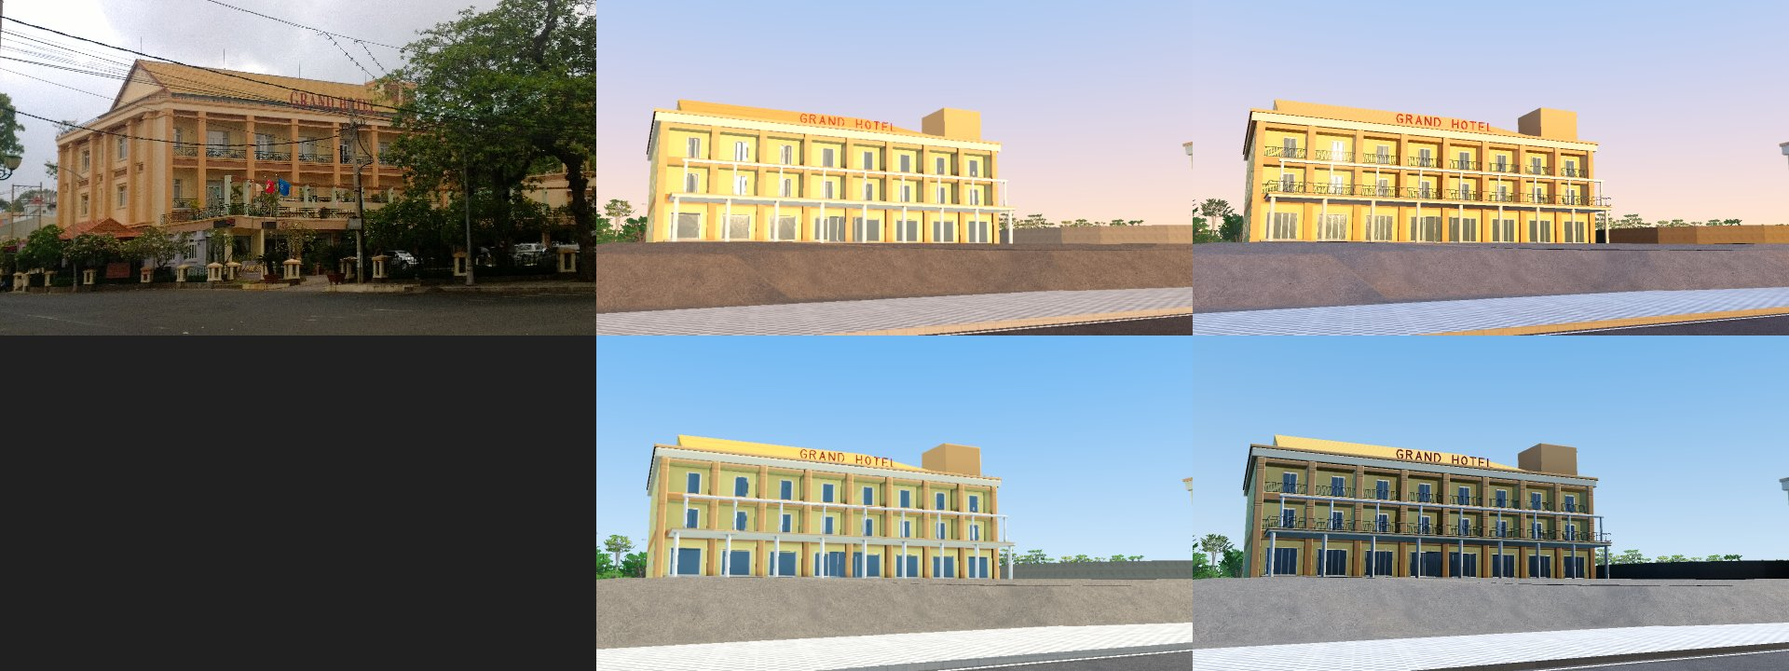
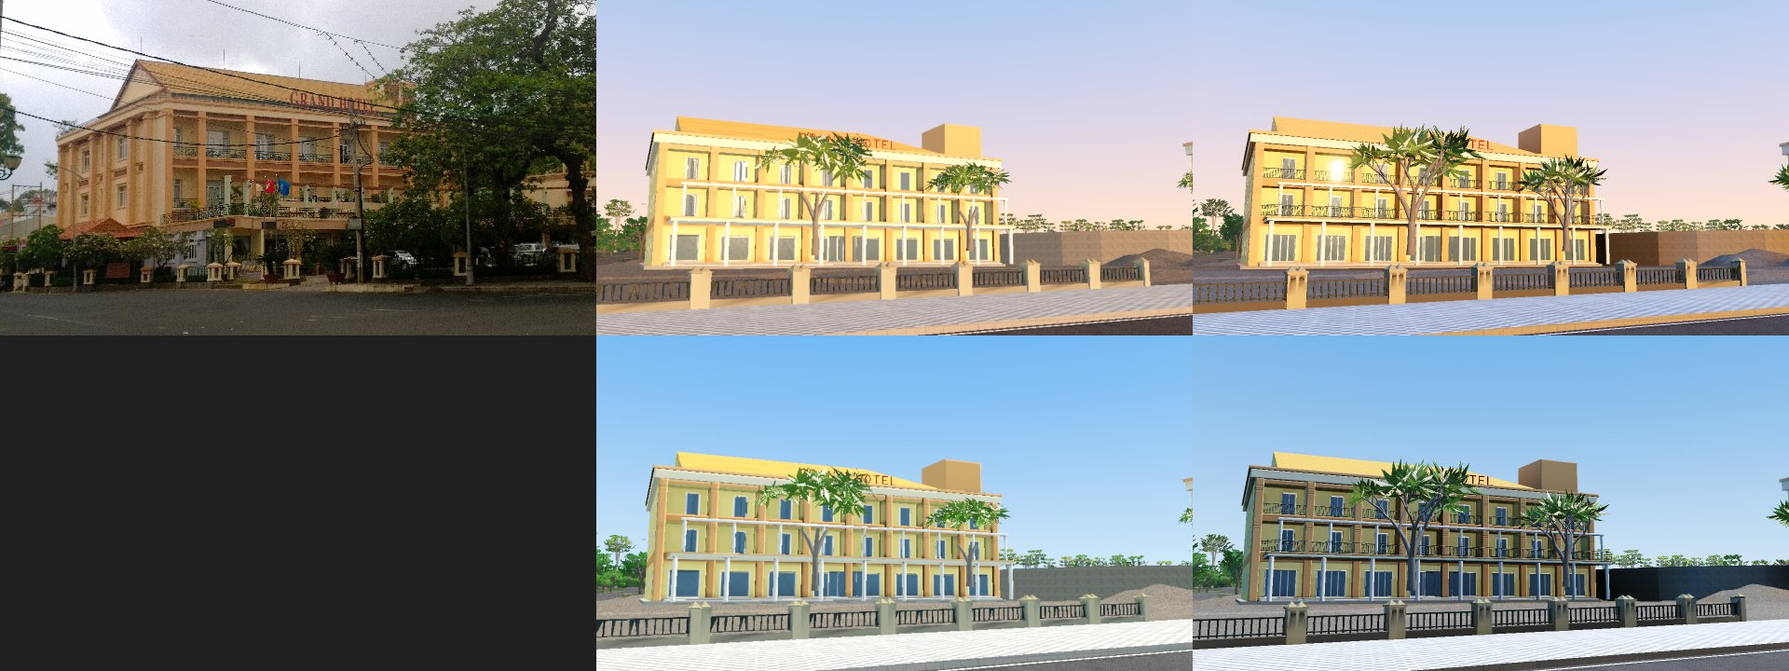
Give the fences a row of their own, and make the sheets of the five shots again
In the row of the walls (the mid level to 12 m on Low) the fence of the Grand
Hotel in S4 was its far level. The fences now have the mid level to 40 m on
Low, and PT-72 fails when a cell of a fence nearer than 30 m to the eye of a
shot shows its far level. The sheets of PT-72 and the hill sheet of S1 are
from this branch.

diff --git a/docs/showcase/index.html b/docs/showcase/index.html
@@ -5,5 +5,5 @@
 img{max-width:100%;height:auto;border:1px solid #ccc}a{word-break:break-all}</style></head>
 <body><h1>The showcase of Bãi Trước</h1>
 <p>Plan 0026, PT-72. The five shots of section 3, next to their photos.</p>
-<section><h2>S1: The beach to the south: the boats, the hotels of Hạ Long, the slope of Núi Nhỏ</h2><p>The photo: <a href="https://commons.wikimedia.org/wiki/File:V%C5%A9ng_T%C3%A0u,_Ba_Ria_-_Vung_Tau,_Vietnam_-_panoramio_(2).jpg">https://commons.wikimedia.org/wiki/File:V%C5%A9ng_T%C3%A0u,_Ba_Ria_-_Vung_Tau,_Vietnam_-_panoramio_(2).jpg</a>, trungydang, CC BY 3.0, 2014-04-05 17:53. The beach of Bãi Trước to the south from the walk at its north end: people and basket boats on the sand, fishing boats in the bay, the sea wall of Hạ Long, Khách sạn Bưu điện (P&amp;T, the tall white block left of the middle) and the hotels on the slope of Núi Nhỏ.</p><p>The eye: the place that the author gave on Panoramio (10.345688 N, 107.073777 E; the camera has no GPS). The lens: Canon PowerShot G12 (in the file): 13.8 mm on a sensor of 7.44 mm, a horizontal field of view of 29.9 degrees. Eye (report 0026, D-0026-20): in the photo, the low wall at the top of the beach is at the left, and the camera looks down on its top: the photographer stands on the walk and holds the camera over the wall, over the sand. So the eye is 0.25 m out of the sea face of the wall (the wall of the game is at x -48.25 there), 1.6 m over the walk, which is 0.8 m over the sand at the foot of the wall: eye_height 2.4 m over the sand. From the walk 2.7 m inland (the eye before), the wall hid the beach, the boats on the sand, and the swimmers: the ground of the beach falls 1.8 m in 6 m from the wall. The place on Panoramio is 19 m from the eye, in the park. Heading: from the place of the photo, Khách sạn Bưu điện (OSM way 259750558, x 22, z 286) is 4.3 degrees left of the middle of the photo and the blue and white block of Cao ốc Sen Biển (way 225803467, x -17, z 352) 0.6 degrees right of it (both give 1.8 to 2.0 degrees from the place of the photo, and 3.4 and 3.5 degrees from the eye): 3.4 degrees. Pitch: the foot of the sea wall of Hạ Long (about 400 m away) is 1.4 degrees under the middle.</p><p>Columns: the photo, Low (the Mobile renderer), High (Forward+). Rows: 17:10, 12:00.</p><img src="sheet_S1.jpg" alt="The sheet of S1"></section><section><h2>S2: The park: the leaning palms on the lawn, the sculptures, the bay</h2><p>The photo: <a href="https://commons.wikimedia.org/wiki/File:C%C3%B4ng_Vi%C3%AAn_B%C3%A3i_Tr%C6%B0%E1%BB%9Bc,_Quang_Trung,_Ph%C6%B0%E1%BB%9Dng_1,_tp._V%C5%A9ng_T%C3%A0u,_B%C3%A0_R%E1%BB%8Ba_-_V%C5%A9ng_T%C3%A0u,_Vi%E1%BB%87t_Nam_-_panoramio_(1).jpg">https://commons.wikimedia.org/wiki/File:C%C3%B4ng_Vi%C3%AAn_B%C3%A3i_Tr%C6%B0%E1%BB%9Bc,_Quang_Trung,_Ph%C6%B0%E1%BB%9Dng_1,_tp._V%C5%A9ng_T%C3%A0u,_B%C3%A0_R%E1%BB%8Ba_-_V%C5%A9ng_T%C3%A0u,_Vi%E1%BB%87t_Nam_-_panoramio_(1).jpg</a>, trungydang, CC BY 3.0, 2014-04-06 08:01. The north part of the park to the south: leaning coconut palms on a lawn, stone sculptures, a sign, Norfolk pines, the low wall of the beach with the boats of the bay on the right, and Khách sạn Bưu điện far in the middle.</p><p>The eye: the GPS of the camera in the photo file (10.345557 N, 107.073917 E). The lens: Nokia Lumia 1020 (in the file): 26 mm (35 mm equivalent) in 16:9, a horizontal field of view of 71.9 degrees. Eye: 4.6 m east of the GPS of the photo, so that the camera is not in the crown of a tree of the park or in a walker. Heading: Khách sạn Bưu điện (x 22, z 286) is 11.4 degrees left of the middle. Pitch: the line of the sea is 110 px under the middle of 720 px.</p><p>Columns: the photo, Low (the Mobile renderer), High (Forward+). Rows: 17:10, 12:00.</p><img src="sheet_S2.jpg" alt="The sheet of S2"></section><section><h2>S3: Cảng vụ from the junction of Hạ Long, Quang Trung to the north</h2><p>The photo: <a href="https://commons.wikimedia.org/wiki/File:Bai_truoc-duong_Ha_long-Ph%C6%B0%E1%BB%9Dng_2,_tp._V%C5%A9ng_T%C3%A0u,_B%C3%A0_R%E1%BB%8Ba_-_V%C5%A9ng_T%C3%A0u,_Vi%E1%BB%87t_Nam_-_panoramio.jpg">https://commons.wikimedia.org/wiki/File:Bai_truoc-duong_Ha_long-Ph%C6%B0%E1%BB%9Dng_2,_tp._V%C5%A9ng_T%C3%A0u,_B%C3%A0_R%E1%BB%8Ba_-_V%C5%A9ng_T%C3%A0u,_Vi%E1%BB%87t_Nam_-_panoramio.jpg</a>, trungydang, CC BY 3.0, 2014-04-06 09:10. Cảng vụ Hàng hải Vũng Tàu (2 Quang Trung) from the junction of Hạ Long: the corner with its glass bays, the sign, the flag, two Norfolk pines, scooters, Quang Trung to the north on the left with the median and the Grand Hotel far away.</p><p>The eye: the GPS of the camera in the photo file (10.341536 N, 107.074760 E). The lens: Nokia Lumia 1020 (in the file): 26 mm (35 mm equivalent) in 16:9, a horizontal field of view of 71.9 degrees. Heading: the round corner of Cảng vụ (x 112, z 204) is 8.4 degrees right of the middle, the north end of its front (x 113, z 177) 7.1 degrees left, and its east end (x 135, z 204) 27.6 degrees right: 144 to 149 degrees. Pitch: the far end of Quang Trung is 205 px under the middle of 720 px.</p><p>Columns: the photo, Low (the Mobile renderer), High (Forward+). Rows: 17:10, 12:00.</p><img src="sheet_S3.jpg" alt="The sheet of S3"></section><section><h2>S4: The Grand Hotel from Quang Trung</h2><p>The photo: <a href="https://commons.wikimedia.org/wiki/File:Grand_hotel,_quang_trung_street-Ph%C6%B0%E1%BB%9Dng_1,_tp._V%C5%A9ng_T%C3%A0u,_B%C3%A0_R%E1%BB%8Ba_-_V%C5%A9ng_T%C3%A0u,_Vi%E1%BB%87t_Nam_-_panoramio.jpg">https://commons.wikimedia.org/wiki/File:Grand_hotel,_quang_trung_street-Ph%C6%B0%E1%BB%9Dng_1,_tp._V%C5%A9ng_T%C3%A0u,_B%C3%A0_R%E1%BB%8Ba_-_V%C5%A9ng_T%C3%A0u,_Vi%E1%BB%87t_Nam_-_panoramio.jpg</a>, trungydang, CC BY 3.0, 2014-04-06 06:54. The Grand Hotel (2 Nguyễn Du) across Quang Trung: the main block of 3 storeys with its tile roof, the north end with a pediment, the letters GRAND HOTEL, the fence with lantern posts, frangipani and big trees.</p><p>The eye: the GPS of the camera in the photo file (10.343776 N, 107.074917 E). The lens: Nokia Lumia 1020 (in the file) with its zoom: a horizontal field of view of 55 degrees, from the photo. Lens and heading: from the GPS of the photo, the north end of the front of the main block (x 152, z -21) is at the bearing 100 degrees and its south end (x 158, z 15) at 68 degrees; the north end is at 125 px of 1280 and the south end is hidden by the trees past 870 px, so the field of view is about 55 degrees, and the heading 77.3 degrees. Pitch: the tops of the lantern posts of the fence (about 1.5 m) are 190 px under the middle. The place on Panoramio of the survey (c11) is 13 m from the GPS of the file.</p><p>Columns: the photo, Low (the Mobile renderer), High (Forward+). Rows: 17:10, 12:00.</p><img src="sheet_S4.jpg" alt="The sheet of S4"></section><section><h2>S5: The walk of the sea at dusk</h2><p>The photo: <a href="https://commons.wikimedia.org/wiki/File:Voyage_au_Vi%C3%AAt_Nam_-_panoramio_(12).jpg">https://commons.wikimedia.org/wiki/File:Voyage_au_Vi%C3%AAt_Nam_-_panoramio_(12).jpg</a>, Jean Van Jean, CC BY 3.0, 2015-03 (uploaded 2015-03-20). The walk of the sea at dusk: a raised lawn in a granite border on the left, the tiles of the walk on the right, lamp poles with warm lights, Quang Trung and a hotel of about 9 storeys behind.</p><p>The eye: the place that the author gave on Panoramio (10.346088 N, 107.073902 E; no GPS in the file, and no geotag in the survey of World plan 0018); the raised lawn that the photo shows at the feet of the camera ends 56 m from it. The lens: not in the file: a phone of 4:3, about 62 degrees horizontal. Eye: on the walk at the north-west end of the raised lawn of OSM way 234797330 (the lawn is at the left of the camera in the photo, its border at its feet). Heading: the edge of the lawn goes to the south-east at the bearing 41 degrees, and its line goes away 3.6 degrees right of the middle of the photo: 44.6 degrees.</p><p>Columns: the photo, Low (the Mobile renderer), High (Forward+). Rows: 17:10, 12:00.</p><img src="sheet_S5.jpg" alt="The sheet of S5"></section>
+<section><h2>S1: The beach to the south: the boats, the hotels of Hạ Long, the slope of Núi Nhỏ</h2><p>The photo: <a href="https://commons.wikimedia.org/wiki/File:V%C5%A9ng_T%C3%A0u,_Ba_Ria_-_Vung_Tau,_Vietnam_-_panoramio_(2).jpg">https://commons.wikimedia.org/wiki/File:V%C5%A9ng_T%C3%A0u,_Ba_Ria_-_Vung_Tau,_Vietnam_-_panoramio_(2).jpg</a>, trungydang, CC BY 3.0, 2014-04-05 17:53. The beach of Bãi Trước to the south from the walk at its north end: people and basket boats on the sand, fishing boats in the bay, the sea wall of Hạ Long, Khách sạn Bưu điện (P&amp;T, the tall white block left of the middle) and the hotels on the slope of Núi Nhỏ.</p><p>The eye: the place that the author gave on Panoramio (10.345688 N, 107.073777 E; the camera has no GPS). The lens: Canon PowerShot G12 (in the file): 13.8 mm on a sensor of 7.44 mm, a horizontal field of view of 29.9 degrees. Eye (report 0026, D-0026-20): in the photo, the low wall at the top of the beach is at the left, and the camera looks down on its top: the photographer stands on the walk and holds the camera over the wall, over the sand. So the eye is 0.25 m out of the sea face of the wall (the wall of the game is at x -48.25 there), 1.6 m over the walk, which is 0.8 m over the sand at the foot of the wall: eye_height 2.4 m over the sand. From the walk 2.7 m inland (the eye before), the wall hid the beach, the boats on the sand, and the swimmers: the ground of the beach falls 1.8 m in 6 m from the wall. The place on Panoramio is 19 m from the eye, in the park. Heading: from the place of the photo, Khách sạn Bưu điện (OSM way 259750558, x 22, z 286) is 4.3 degrees left of the middle of the photo and the blue and white block of Cao ốc Sen Biển (way 225803467, x -17, z 352) 0.6 degrees right of it (both give 1.8 to 2.0 degrees from the place of the photo, and 3.4 and 3.5 degrees from the eye): 3.4 degrees. Pitch: the foot of the sea wall of Hạ Long (about 400 m away) is 1.4 degrees under the middle.</p><p>Columns: the photo, Low (the Mobile renderer), High (Forward+). Rows: 17:10, 12:00.</p><img src="sheet_S1.jpg" alt="The sheet of S1"><p>The box "hill" at twice its size: the photo, then each screenshot (report 0026, D-0026-23).</p><img src="sheet_S1_hill.jpg" alt="The hill of S1"></section><section><h2>S2: The park: the leaning palms on the lawn, the sculptures, the bay</h2><p>The photo: <a href="https://commons.wikimedia.org/wiki/File:C%C3%B4ng_Vi%C3%AAn_B%C3%A3i_Tr%C6%B0%E1%BB%9Bc,_Quang_Trung,_Ph%C6%B0%E1%BB%9Dng_1,_tp._V%C5%A9ng_T%C3%A0u,_B%C3%A0_R%E1%BB%8Ba_-_V%C5%A9ng_T%C3%A0u,_Vi%E1%BB%87t_Nam_-_panoramio_(1).jpg">https://commons.wikimedia.org/wiki/File:C%C3%B4ng_Vi%C3%AAn_B%C3%A3i_Tr%C6%B0%E1%BB%9Bc,_Quang_Trung,_Ph%C6%B0%E1%BB%9Dng_1,_tp._V%C5%A9ng_T%C3%A0u,_B%C3%A0_R%E1%BB%8Ba_-_V%C5%A9ng_T%C3%A0u,_Vi%E1%BB%87t_Nam_-_panoramio_(1).jpg</a>, trungydang, CC BY 3.0, 2014-04-06 08:01. The north part of the park to the south: leaning coconut palms on a lawn, stone sculptures, a sign, Norfolk pines, the low wall of the beach with the boats of the bay on the right, and Khách sạn Bưu điện far in the middle.</p><p>The eye: the GPS of the camera in the photo file (10.345557 N, 107.073917 E). The lens: Nokia Lumia 1020 (in the file): 26 mm (35 mm equivalent) in 16:9, a horizontal field of view of 71.9 degrees. Eye: 4.6 m east of the GPS of the photo, so that the camera is not in the crown of a tree of the park or in a walker. Heading: Khách sạn Bưu điện (x 22, z 286) is 11.4 degrees left of the middle. Pitch: the line of the sea is 110 px under the middle of 720 px.</p><p>Columns: the photo, Low (the Mobile renderer), High (Forward+). Rows: 17:10, 12:00.</p><img src="sheet_S2.jpg" alt="The sheet of S2"></section><section><h2>S3: Cảng vụ from the junction of Hạ Long, Quang Trung to the north</h2><p>The photo: <a href="https://commons.wikimedia.org/wiki/File:Bai_truoc-duong_Ha_long-Ph%C6%B0%E1%BB%9Dng_2,_tp._V%C5%A9ng_T%C3%A0u,_B%C3%A0_R%E1%BB%8Ba_-_V%C5%A9ng_T%C3%A0u,_Vi%E1%BB%87t_Nam_-_panoramio.jpg">https://commons.wikimedia.org/wiki/File:Bai_truoc-duong_Ha_long-Ph%C6%B0%E1%BB%9Dng_2,_tp._V%C5%A9ng_T%C3%A0u,_B%C3%A0_R%E1%BB%8Ba_-_V%C5%A9ng_T%C3%A0u,_Vi%E1%BB%87t_Nam_-_panoramio.jpg</a>, trungydang, CC BY 3.0, 2014-04-06 09:10. Cảng vụ Hàng hải Vũng Tàu (2 Quang Trung) from the junction of Hạ Long: the corner with its glass bays, the sign, the flag, two Norfolk pines, scooters, Quang Trung to the north on the left with the median and the Grand Hotel far away.</p><p>The eye: the GPS of the camera in the photo file (10.341536 N, 107.074760 E). The lens: Nokia Lumia 1020 (in the file): 26 mm (35 mm equivalent) in 16:9, a horizontal field of view of 71.9 degrees. Heading: the round corner of Cảng vụ (x 112, z 204) is 8.4 degrees right of the middle, the north end of its front (x 113, z 177) 7.1 degrees left, and its east end (x 135, z 204) 27.6 degrees right: 144 to 149 degrees. Pitch: the far end of Quang Trung is 205 px under the middle of 720 px.</p><p>Columns: the photo, Low (the Mobile renderer), High (Forward+). Rows: 17:10, 12:00.</p><img src="sheet_S3.jpg" alt="The sheet of S3"></section><section><h2>S4: The Grand Hotel from Quang Trung</h2><p>The photo: <a href="https://commons.wikimedia.org/wiki/File:Grand_hotel,_quang_trung_street-Ph%C6%B0%E1%BB%9Dng_1,_tp._V%C5%A9ng_T%C3%A0u,_B%C3%A0_R%E1%BB%8Ba_-_V%C5%A9ng_T%C3%A0u,_Vi%E1%BB%87t_Nam_-_panoramio.jpg">https://commons.wikimedia.org/wiki/File:Grand_hotel,_quang_trung_street-Ph%C6%B0%E1%BB%9Dng_1,_tp._V%C5%A9ng_T%C3%A0u,_B%C3%A0_R%E1%BB%8Ba_-_V%C5%A9ng_T%C3%A0u,_Vi%E1%BB%87t_Nam_-_panoramio.jpg</a>, trungydang, CC BY 3.0, 2014-04-06 06:54. The Grand Hotel (2 Nguyễn Du) across Quang Trung: the main block of 3 storeys with its tile roof, the north end with a pediment, the letters GRAND HOTEL, the fence with lantern posts, frangipani and big trees.</p><p>The eye: the GPS of the camera in the photo file (10.343776 N, 107.074917 E). The lens: Nokia Lumia 1020 (in the file) with its zoom: a horizontal field of view of 55 degrees, from the photo. Lens and heading: from the GPS of the photo, the north end of the front of the main block (x 152, z -21) is at the bearing 100 degrees and its south end (x 158, z 15) at 68 degrees; the north end is at 125 px of 1280 and the south end is hidden by the trees past 870 px, so the field of view is about 55 degrees, and the heading 77.3 degrees. Pitch: the tops of the lantern posts of the fence (about 1.5 m) are 190 px under the middle. The place on Panoramio of the survey (c11) is 13 m from the GPS of the file.</p><p>Columns: the photo, Low (the Mobile renderer), High (Forward+). Rows: 17:10, 12:00.</p><img src="sheet_S4.jpg" alt="The sheet of S4"></section><section><h2>S5: The walk of the sea at dusk</h2><p>The photo: <a href="https://commons.wikimedia.org/wiki/File:Voyage_au_Vi%C3%AAt_Nam_-_panoramio_(12).jpg">https://commons.wikimedia.org/wiki/File:Voyage_au_Vi%C3%AAt_Nam_-_panoramio_(12).jpg</a>, Jean Van Jean, CC BY 3.0, 2015-03 (uploaded 2015-03-20). The walk of the sea at dusk: a raised lawn in a granite border on the left, the tiles of the walk on the right, lamp poles with warm lights, Quang Trung and a hotel of about 9 storeys behind.</p><p>The eye: the place that the author gave on Panoramio (10.346088 N, 107.073902 E; no GPS in the file, and no geotag in the survey of World plan 0018); the raised lawn that the photo shows at the feet of the camera ends 56 m from it. The lens: not in the file: a phone of 4:3, about 62 degrees horizontal. Eye: on the walk at the north-west end of the raised lawn of OSM way 234797330 (the lawn is at the left of the camera in the photo, its border at its feet). Heading: the edge of the lawn goes to the south-east at the bearing 41 degrees, and its line goes away 3.6 degrees right of the middle of the photo: 44.6 degrees.</p><p>Columns: the photo, Low (the Mobile renderer), High (Forward+). Rows: 17:10, 12:00.</p><img src="sheet_S5.jpg" alt="The sheet of S5"></section>
 </body></html>

diff --git a/docs/plans/0026-showcase-bai-truoc.md b/docs/plans/0026-showcase-bai-truoc.md
@@ -273,7 +273,7 @@ Most photos are from 2014 and 2015. A difference from 2019 that I know is a "Che
 - **Report 0026, D-0026-25 (the low wall at the eye of S1).** The walk is level to the wall: the build fills the ground of the walk side of each low wall of the beach to the level of the walk 3 m from the line, by at most 0.8 m (the walk side is the side whose point 1.5 m out is not on the beach); at the eye of S1 the walk is 4.58 m at 0.75 m from the line and 4.72 m at 2.75 m (it was 4.02 m and 4.63 m). The kind of the wall: only the photo of S1 (2014) shows the solid granite wall with the flat cap at the eye; Mapillary has no image of the walk of the sea (the walk is not a road), so that part stays Check, and the wall keeps its posts until a photo of 2017 to 2021 shows it.
 - **Report 0026, D-0026-26 (the steps of the openings).** The side of the sand of a low wall is its lower side where the two sides differ by more than 0.15 m 2 m out, and the side with less lawn and paving only where they do not (the flat north end of the line: there the steps went up on the side of the walk). The walls of the walks of the park have their steps too (five of the ten openings had none, with the sand 0.6 m to 2.3 m under the walk). PT-77 `showcase_steps` walks with the joystick through each opening, down the steps to the sand, and back up, in four runs, with a screenshot of each opening from the walk and from the sand. When I looked at the screenshots of the sand, each opening had a flat block over the sand, and the play test passed: the steps went down under the walk, on the wrong side (the steps go down along +z of the GLB of `bac_xuong_cat`), and `WorldModel` puts each level of a model on y = 0 (R7), so the row lifted the steps, which hang under their top, by their depth (1.25 m). Then the top of the steps was the base of the wall, not the walk (about 1 m over the walk at the openings near a raised lawn). Now the steps go to the sand, the pieces of the sea walls and the steps take away the lift of the row (`Showcase._lift_of()`), and the top of the steps is the ground of the walk 0.3 m from the wall. The step that finds it: PT-77 checks the top of the steps as the row draws them against the walk 1 m from the wall (at most 0.25 m) and their foot against the sand (on the side of the sand, at most 0.3 m from the ground), and writes the ground from 3 m on the walk to 3 m on the sand at each opening.
 - **Report 0026, D-0026-27 (the models with the status Source).** The job "Models of World" built `nha_mai_ngoi_cam`, `ke_ha_long`, and `ke_da_bai_truoc` (`fe1c185`). The hall stands on its outline at the level of the sidewalk of Hạ Long (the photo from a drone of 2021 shows its yard at the level of the road), in place of its stand-in. The sloped sea wall of Hạ Long is pieces of `ke_ha_long`, and the low wall of the beach has pieces of `ke_da_bai_truoc` on the side of the sand, each scaled in height to the drop at its place. `nha_khach_ha_long` waits out of `data/world/orders.json`: the job built it, but the check of its files failed ("the order of orders.json is not the order of the receipt"); the check now names the first value that differs, and its looks wait for the files of the lock. The test of the orders fails for a drawing with the status Source and no order, unless its `status_note` starts with "Not in the game" and says why. The first build of the pieces of `ke_ha_long` rose from the walk (the lift of the row, above): I turned the height over, and the slope then lay as a flat deck at the level of the walk over the sand. With the lift taken away, the slope goes down from the parapet to the sand, with its height scaled to the drop and its run to the same part (it keeps its angle).
-- **Report 0026, D-0026-28 (the budget of S5).** PT-73 measures each shot with walker spots again with each walker of its spots held at the point of its way nearest to the eye. The spot of S5 started 5 m from the eye; the photo of S5 has no person nearer than about 15 m, and with the walkers at their mid level S5 had 332 442 triangles and 617 draw calls. The spot now starts 10.5 m from the eye: S5 has 286 858 triangles and 568 draw calls on Low in the worst case. With the fence of the Grand Hotel, the pieces under the low wall, and the steps, the CI of `1e1c173` had 312 688 triangles at S5 and 301 842 at S2 (the walkers near). A range of a row is for a whole cell of 24 m, so all the pieces of the cell of the eye had their mid level. Now the pieces under the low wall are a row of their own with no shadow and only the far level on Low (to 40 m; from the walk the wall hides them), the pieces of the walls have the mid level to 12 m on Low, and the granite borders of the paths of the park are in squares of 60 m, each to 120 m (as one mesh for the park of 480 m they were 10 700 triangles of S2 and 12 700 of S5). S1 188 406, S2 283 568, S3 219 982, S4 166 727, and S5 283 998 triangles on Low, 570 draw calls at S5.
+- **Report 0026, D-0026-28 (the budget of S5).** PT-73 measures each shot with walker spots again with each walker of its spots held at the point of its way nearest to the eye. The spot of S5 started 5 m from the eye; the photo of S5 has no person nearer than about 15 m, and with the walkers at their mid level S5 had 332 442 triangles and 617 draw calls. The spot now starts 10.5 m from the eye: S5 has 286 858 triangles and 568 draw calls on Low in the worst case. With the fence of the Grand Hotel, the pieces under the low wall, and the steps, the CI of `1e1c173` had 312 688 triangles at S5 and 301 842 at S2 (the walkers near). A range of a row is for a whole cell of 24 m, so all the pieces of the cell of the eye had their mid level. Now the pieces under the low wall are a row of their own with no shadow and only the far level on Low (to 40 m; from the walk the wall hides them), the pieces of the walls have the mid level to 12 m on Low, and the granite borders of the paths of the park are in squares of 60 m, each to 120 m (as one mesh for the park of 480 m they were 10 700 triangles of S2 and 12 700 of S5). S1 188 406, S2 283 568, S3 219 982, S4 166 727, and S5 283 998 triangles on Low, 570 draw calls at S5. When I looked at the new sheets, the fence of the Grand Hotel in S4 on Low was its far level (a row of grey teeth): it was in the row of the walls, whose mid level now ends at 12 m. The spans of the fences are now a row of their own (`Showcase.fence_row`, `fence_ranges` of `wall_pieces`: on Low the mid level to 40 m). The step that finds it: PT-72 fails when a cell of a fence nearer than 30 m to the eye of a shot shows its far level (with the old range it failed at S4).
 - **Report 0026, D-0026-29 (the grey slab).** The top of a raised lawn is one plane fitted to the ground at its corners: with the ground at each corner, the grey top and the lawn were two bent faces with other diagonals, and the grey came over a third of the lawn. PT-72 checks that at least 80 % of the box `lawn` of S5 is green (90 % now; about 65 % with the slab).
 - **Report 0026, D-0026-30 (small things).** The shirts of `walker_3` and `walker_6` are mid tones (#9aa889 and #7d93a8; at the mid and the far level a light shirt was one flat color, as a body with no clothes). The puddles of the wet sand have soft edges, a little of the color of the water, and less gloss (white and dark patches before). Open: the south end of the park (bare sand with a dark band) and the point of brown earth at the south end of the median (the ground there is at the level of the roads: it is the ground texture in the gap between the two road meshes, a change of the surface mask of the build).
 - **R18 to R20 from the photos of 2017 to 2021.** The eight images of 2018-07-29 on Quang Trung (`sheet_r18_quang_trung_grand_1.jpg`, `sheet_r18_quang_trung_south_1.jpg`) show the sidewalk of the park side: checker tiles of dark grey and white, a map board in a black stand in 4 of 8 images, a drinks machine, cars parked at the curb in 6 of 8, groups of 5 to 10 scooters parked under the trees in 2 of 8, a cart of a seller in 1 of 8, no plastic stools, no shop signs (the park side has no shops). The road: dark asphalt, a white dashed middle line, a zebra crossing, a light granite curb; no patch and no manhole cover in these frames. No image of 2017 to 2021 looks at the shops of the town side of Quang Trung or of Hạ Long, and none is of the weeks before Tết (R19): the counts of `data/showcase/dressing.json` need more photos (a question for me).

diff --git a/AGENTS.md b/AGENTS.md
@@ -116,7 +116,7 @@ Verified in the development workspace (Linux, 2 CPUs, no GPU, no Vulkan):
 - The World factory checks that a model stands: the center of its points must be over its base. A lamp pole with a long arm does not stand by this rule; a thing that its site holds has `"site": true` in the extras of its drawing (World `lib/world/check.ex`). On 2026-11-17 (World `1984a6f`), a sculpture of 12 m with cells of 1 cm at the near level needed more memory than the factory has (HTTP 503), and a drawing of three such parts did not build at the mid level, though each part built alone; one part with cells of 1.5 cm built in 22 s. An order of a blueprint in data has the whole blueprint in it: a change of one kind of a family changes the hash of each order of the family. On the same day the factory answered HTTP 503 at `POST /orders` for each building of the blueprint `building` of 17 m or more, and for a near level with a map of 1 024: the job "Models of World" builds such an order with `mix world.order` (Hải Âu, about 70 m long: 28 minutes).
 - A node with a negative scale renders correctly (above), but an instance of a MultiMesh with a mirrored basis (a negative determinant) shows its back faces: the renderer does not turn its faces over. `Showcase._wall_piece()` keeps the basis of each piece of a wall right-handed.
 - `WorldModel` puts the lowest point of each level on y = 0 (plan 0023, R7), and a `WorldRow` uses these levels. A piece that hangs under its port (its top at y = 0 of World, as the pieces of the sea walls and the steps down to the sand) comes out lifted by its depth. `Showcase._lift_of()` gives the lift; `_wall_piece()` and the steps take it away. Do not turn the height of such a piece over: that makes its sloped face its bottom face.
-- A visibility range is for a whole node: a `WorldRow` cell of 24 m, or one mesh of a color of the showcase over the whole park, shows all its parts at the level of the distance to its middle (PT-73: the low wall of S5 and the borders of the paths of S2). A part with a range of its own needs a row or mesh of its own (`Showcase.under_row`, the squares of `path_borders` with `chunk_m` and `far_m`).
+- A visibility range is for a whole node: a `WorldRow` cell of 24 m, or one mesh of a color of the showcase over the whole park, shows all its parts at the level of the distance to its middle (PT-73: the low wall of S5 and the borders of the paths of S2). A part with a range of its own needs a row or mesh of its own (`Showcase.under_row`, `Showcase.fence_row`, the squares of `path_borders` with `chunk_m` and `far_m`).
 - The glTF import of Godot makes a `VehicleWheel3D` of a node whose name ends with `_wheel` or `-wheel` (and other node types for other suffixes), with the option `nodes/use_name_suffixes`. A joint of World can have such a name (`front_wheel`), so the import files of `assets/world/` turn the option off.
 - A visibility range is for a node. A `MultiMeshInstance3D` shows or hides all its instances at one distance. So a row of models of World (`WorldRow`) is in cells of 6 m.
 - The public bucket of Overture Maps (`overturemaps-us-west-2.s3.us-west-2.amazonaws.com`) answered from the workspace on 2026-11-17 (plan 0009, D2: not on 2026-11-05). The S3 list API (`?list-type=2`) gives the files of a release, and DuckDB reads the parquet files over HTTPS with `http_proxy` and `ca_cert_file` set. An `s3://` URL fails with 403: the proxy adds credentials to it.
@@ -278,7 +278,7 @@ The audio driver prints ALSA errors in the workspace. These errors are not defec
 - **Street photos** (plan 0009, R5e, made in plan 0026, R22): `tools/geo/photos.py` (CI only: the workflow "Street photos", `.github/workflows/mapillary.yml`, with the secret `MAPILLARY_TOKEN`) makes `data/geo/raw/mapillary.json` (the index of the images of the play area: ids, not URLs), `data/geo/build/photos_report.md` and `photos_map.png`, and the contact sheets of `data/showcase/photo_points.json` in `docs/reference/mapillary/` with `CREDITS.md`; `--check` needs no network. The workspace cannot reach Mapillary. A source of a drawing with `"mapillary": ID` is copied by `tools/photos/photos.py` in CI. `tools/geo/build.py` keeps the report and the map.
 - **A look on a real graphics card** (R21): the export workflow makes the macOS build with the play tests (the preset "macOS look") on each push to a branch `feat/...`; on a Mac, `tools/look_on_mac.sh` runs PT-72 on High with it and writes the sheets and the memory to `docs/showcase/mac/`.
 - **Reference photos** (R17): `python tools/photos/photos.py` copies the open photos (CC0, CC BY, CC BY-SA, public domain) of the drawings and of `data/showcase/shots.json` to `docs/reference/photos/` and writes `CREDITS.md`; `--check` checks them with no network; `--other DIR` gets the photos that are not open into a folder outside the repository. The workflow "Reference photos" (`.github/workflows/photos.yml`) does the same in CI, and keeps the photos that are not open as an artifact of one day. Look at each photo before a value comes from it.
-- **Play tests**: PT-71 `showcase_places`, PT-72 `showcase_shots` (`python tools/showcase/sheets.py` puts the sheets in `docs/showcase/`; a stand-in that covers more than 2 % of the frame of a shot fails, and the box `hill` of a shot is compared with its photo in hue, saturation, value, and the spread of its colors), PT-73 `showcase_budget`, PT-74 `showcase_walk` (the walk from the park to the jetty, in eight runs, each less than 180 s also with `PLAYTEST_MAX_FPS=3`), PT-75 `showcase_people`, PT-76 `showcase_night`, and PT-77 `showcase_steps` (the walk through each opening of the low wall, down the steps to the sand, and back up; the top of the steps as the row draws them is at the walk, and their foot is on the sand). PT-71 also checks the ground from the curb of its street to the front of each model of World (at most 0.5 m up or down, or the height of `front_above_street_m` from a photo); PT-72 also checks the shape of the box `hill` against the photo (the part on an edge, the largest smooth area), that no tree or model hides a subject with `trees`, and the green of the box `lawn`; PT-73 also measures each shot with the walkers of its spots at their points nearest to the eye. The side of the sand of a low wall is its lower side, or the side with less lawn and paving where the two sides are level (`Showcase._sand_side()`).
+- **Play tests**: PT-71 `showcase_places`, PT-72 `showcase_shots` (`python tools/showcase/sheets.py` puts the sheets in `docs/showcase/`; a stand-in that covers more than 2 % of the frame of a shot fails, and the box `hill` of a shot is compared with its photo in hue, saturation, value, and the spread of its colors), PT-73 `showcase_budget`, PT-74 `showcase_walk` (the walk from the park to the jetty, in eight runs, each less than 180 s also with `PLAYTEST_MAX_FPS=3`), PT-75 `showcase_people`, PT-76 `showcase_night`, and PT-77 `showcase_steps` (the walk through each opening of the low wall, down the steps to the sand, and back up; the top of the steps as the row draws them is at the walk, and their foot is on the sand). PT-71 also checks the ground from the curb of its street to the front of each model of World (at most 0.5 m up or down, or the height of `front_above_street_m` from a photo); PT-72 also checks the shape of the box `hill` against the photo (the part on an edge, the largest smooth area), that no tree or model hides a subject with `trees`, and the green of the box `lawn`; PT-72 also fails when a cell of a fence nearer than 30 m to the eye shows its far level; PT-73 also measures each shot with the walkers of its spots at their points nearest to the eye. The side of the sand of a low wall is its lower side, or the side with less lawn and paving where the two sides are level (`Showcase._sand_side()`).
 
 ## 6. Repository map
 
